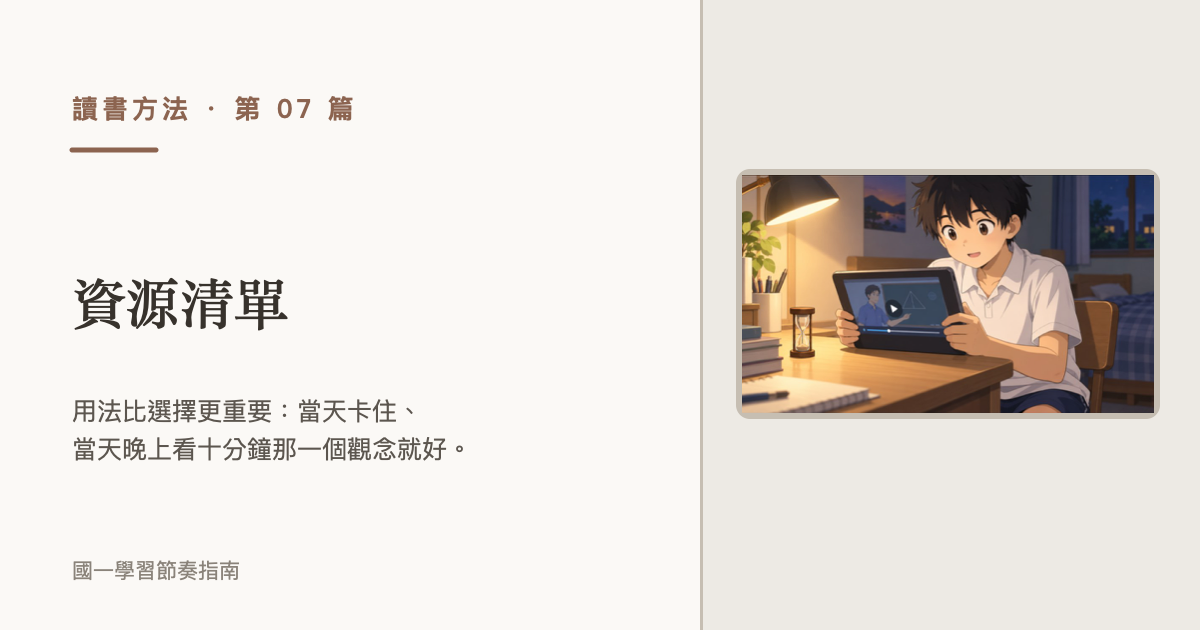
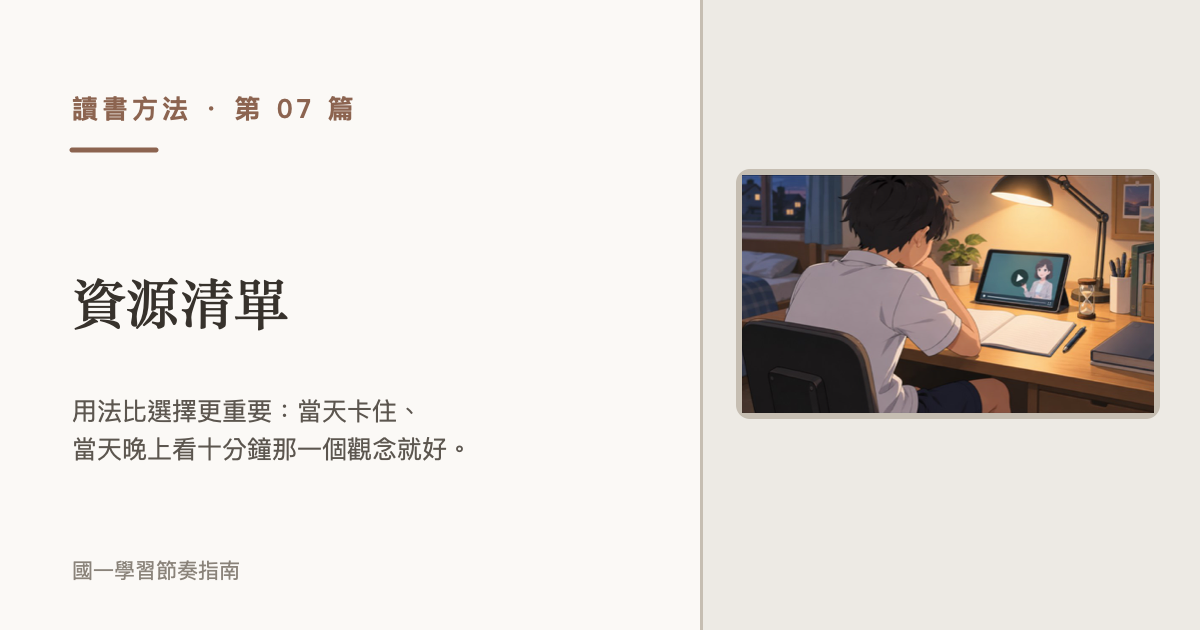
Redraw 07 so the tablet screen faces the boy
The previous version had the tablet turned toward the camera, which
meant the one person supposedly watching the lesson could not see it.

Shot over his shoulder instead: the tablet sits on a stand angled at
him, and the camera picks the screen up on the same angle, so the boy
is plausibly watching something the reader can also read.

Changed region(s): [[0.6167, 0.2714, 0.9867, 0.6635]]

diff --git a/docs/index.html b/docs/index.html
@@ -190,7 +190,7 @@
       <a class="card cat-讀書方法" href="posts/07-resources.html">
         <div class="card-cover">
           <span class="tag">讀書方法</span>
-          <img src="assets/art/07-resources.jpg" alt="男孩拿著平板看教學影片，桌上放著一個沙漏" width="1000" height="563">
+          <img src="assets/art/07-resources.jpg" alt="從男孩肩後看過去，平板立在桌上朝著他播放教學影片，旁邊有一個沙漏" width="1000" height="563">
         </div>
         <div class="card-body">
           <div class="card-meta">第 07 篇 · 約 4 分鐘</div>

diff --git a/docs/posts/07-resources.html b/docs/posts/07-resources.html
@@ -57,7 +57,7 @@
   <p class="standfirst">用法比選擇更重要：當天卡住、當天晚上看十分鐘那一個觀念就好。</p>
 
   <figure class="hero">
-    <img src="../assets/art/07-resources.jpg" alt="男孩拿著平板看教學影片，桌上放著一個沙漏" width="1000" height="563">
+    <img src="../assets/art/07-resources.jpg" alt="從男孩肩後看過去，平板立在桌上朝著他播放教學影片，旁邊有一個沙漏" width="1000" height="563">
   </figure>
 
   <article>
